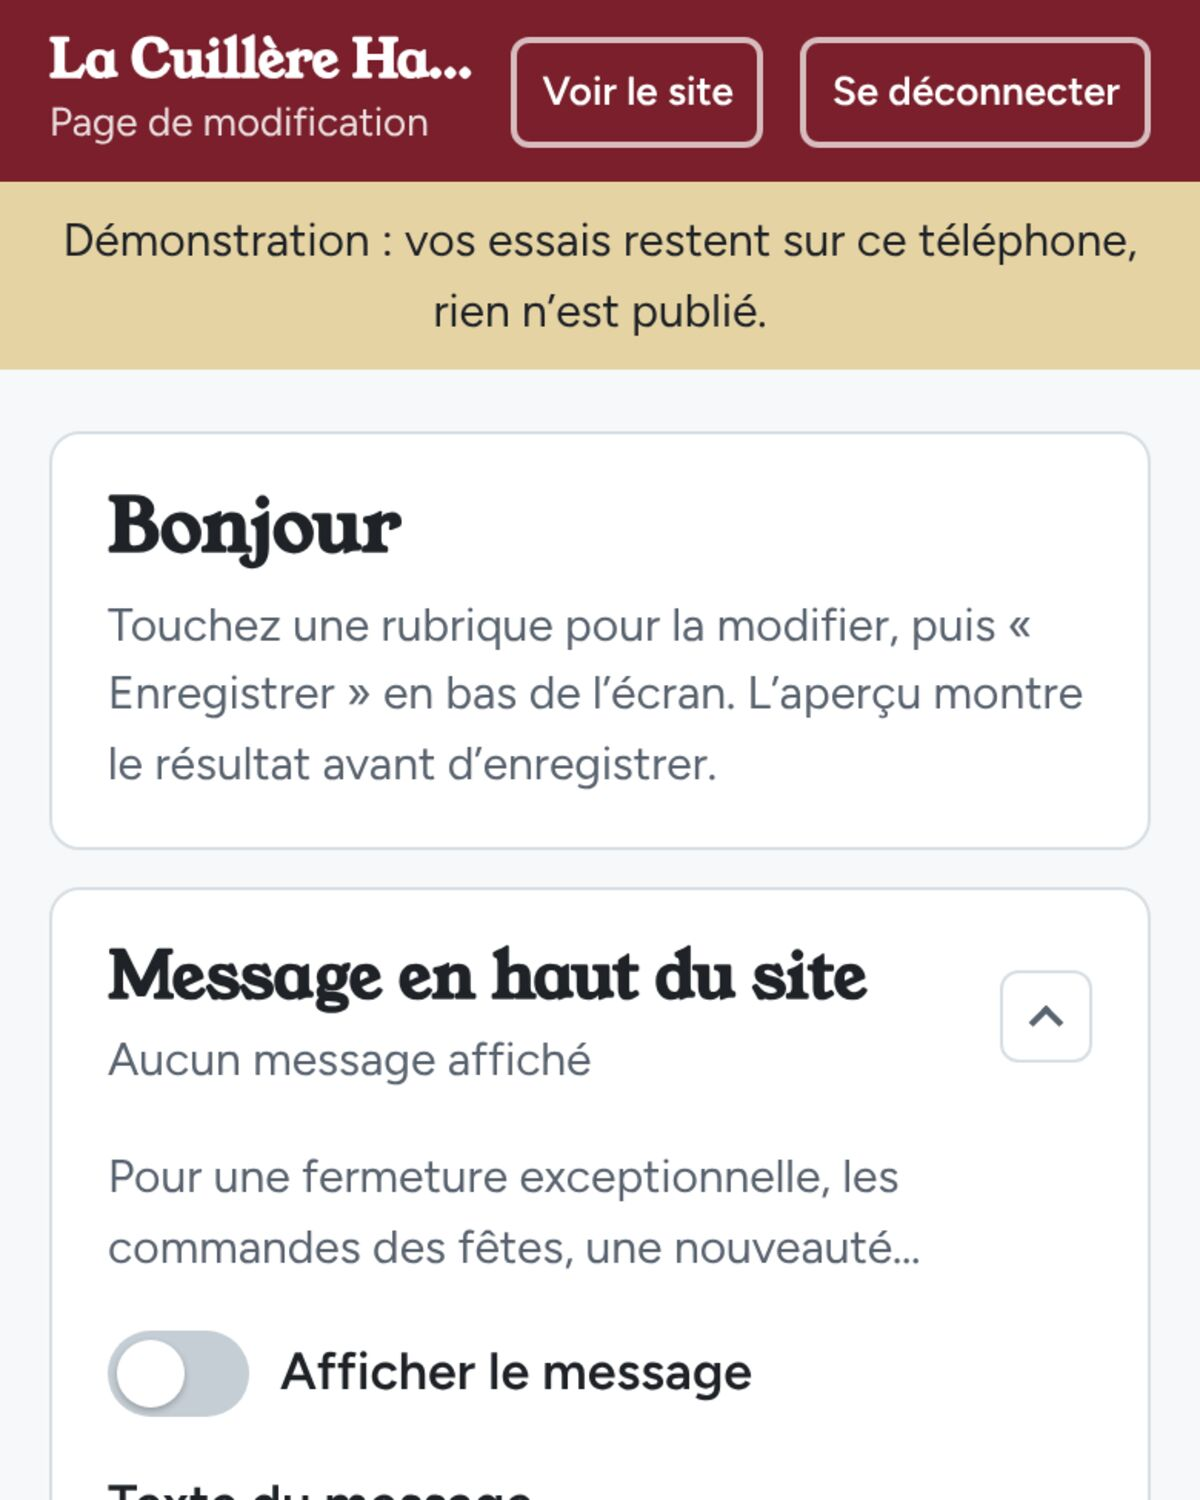
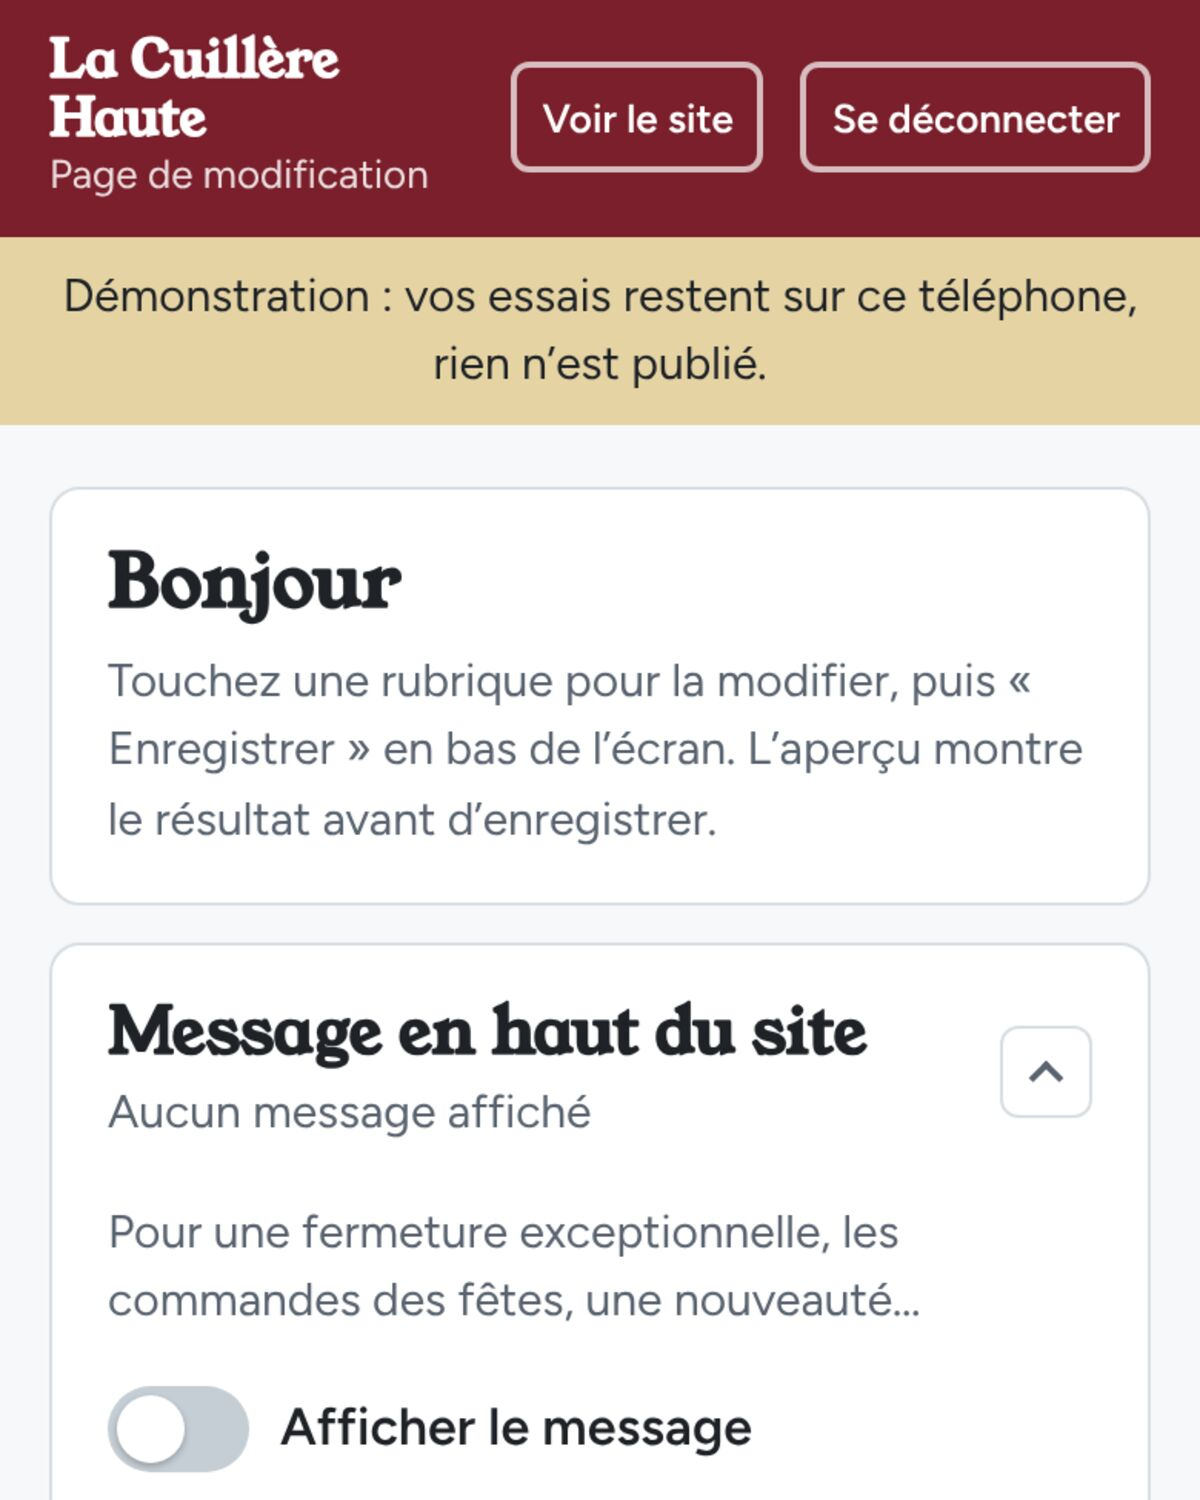
Design édition, révision 3 : un seul univers (papier, encre, bleu), filet bleu signature, démonstrations 2×2, capture de modification lisible, À propos sans portrait ; docs/PHOTOS-A-FOURNIR.md
Claude-Session: https://claude.ai/code/session_01KmWuHobznHmM7V82BQaya5

Changed region(s): [[0.0, 0.0, 1.0, 1.0], [0.8325, 0.644, 0.8942, 0.736]]

diff --git a/public/assets/site.css b/public/assets/site.css
@@ -881,3 +881,71 @@ select.saisie{background-image:linear-gradient(45deg,transparent 50%,var(--gris)
 @media (max-width:759px){.g-edition .cmp tbody th{width:auto}}
 .g-edition .essai-act{display:block}
 .g-edition .essai-act svg{display:inline-block;vertical-align:-4px;margin-left:6px}
+
+/* Révision 3 : un seul univers (papier, encre, bleu), le noir réservé au pied de page ; trait signature : le filet bleu */
+.g-edition .hero{padding-bottom:clamp(8px,2vw,24px)}
+.g-edition .hero + .sec{padding-top:clamp(40px,5vw,72px)}
+.g-edition .sec-tete h2::before,.g-edition .intro-txt h2::before,.g-edition .essai-txt h2::before{content:"";display:block;width:44px;height:4px;background:var(--bleu);margin-bottom:24px}
+.g-edition .intro-txt h2,.g-edition .essai-txt h2,.g-edition .sec-tete h2{font-size:clamp(1.875rem,3.4vw,2.75rem);max-width:16ch}
+.g-edition .etape-num{display:none}
+.g-edition .etapes>li{border-top:var(--filfort);padding-top:22px}
+.g-edition .etapes>li{position:relative}
+.g-edition .etapes>li::before{display:block;content:"";position:absolute;top:-1px;left:0;width:44px;height:4px;background:var(--bleu)}
+.g-edition .sombre{background:#fff;color:var(--encre);border-top:var(--filfort);border-bottom:var(--filfort)}
+.g-edition .sombre h2,.g-edition .sombre h3{color:var(--encre)}
+.g-edition .sombre .chapo,.g-edition .sombre p{color:var(--gris)}
+.g-edition .sombre .sur{color:var(--bleu)}
+.g-edition .metiers{border-top:var(--filfort)}
+.g-edition .metiers li{border-bottom:var(--fil)}
+.g-edition .metiers li:last-child{border-bottom:var(--filfort)}
+.g-edition .metiers a{color:var(--encre)}
+.g-edition .metiers a:hover{background:none}
+.g-edition .metiers a:hover h3{color:var(--bleu)}
+.g-edition .metiers p{color:var(--gris)}
+.g-edition .metiers .metier-prix{color:var(--bleu)}
+.g-edition .metiers .metier-prix .prix-l{color:var(--gris)}
+.g-edition .metiers .lien{color:var(--encre)}
+.g-edition .appel{background:var(--fond);color:var(--encre);border-top:4px solid var(--bleu)}
+.g-edition .appel h2{color:var(--encre)}
+.g-edition .appel p{color:var(--gris)}
+.g-edition .appel .sur{color:var(--bleu)}
+.g-edition .appel .btn{background:var(--bleu);border-color:var(--bleu);color:#fff}
+.g-edition .appel .btn:hover{background:var(--encre);border-color:var(--encre);color:#fff}
+.g-edition .appel .btn-ligne-clair{background:transparent;color:var(--encre);border-color:var(--encre)}
+.g-edition .appel .btn-ligne-clair:hover{background:var(--encre);color:#fff;border-color:var(--encre)}
+.g-edition .appel-in{padding-top:clamp(56px,8vw,104px);padding-bottom:clamp(56px,8vw,104px)}
+.g-edition .appel h2{font-size:clamp(2rem,4.2vw,3.5rem)}
+
+/* La capture de la page de modification : hauteur fixe, filet, fondu */
+.g-edition .intro-fig{position:relative;align-self:start}
+.g-edition .intro-img{aspect-ratio:auto;height:440px;width:100%;object-fit:cover;object-position:top;-webkit-mask-image:linear-gradient(#000 calc(100% - 64px),transparent);mask-image:linear-gradient(#000 calc(100% - 64px),transparent);border:var(--fil);border-bottom:0}
+
+/* Démonstrations : quatre captures en deux colonnes, assez grandes pour être lues */
+.g-edition .essai-vue{aspect-ratio:5/4;-webkit-mask-image:linear-gradient(#000 calc(100% - 40px),transparent);mask-image:linear-gradient(#000 calc(100% - 40px),transparent);border-bottom:0}
+.g-edition .essai-liens{grid-template-columns:minmax(0,1fr)}
+.g-edition .essai-liens b{font-size:1.5rem}
+.g-edition .essai-liens small{font-size:1rem}
+@media (min-width:620px){.g-edition .essai-liens{grid-template-columns:repeat(2,minmax(0,1fr));gap:40px 28px}}
+@media (min-width:1000px){
+  .g-edition .essai-grille{grid-template-columns:minmax(0,4fr) minmax(0,8fr);column-gap:clamp(40px,6vw,96px);align-items:start}
+  .g-edition .essai-liens{grid-template-columns:repeat(2,minmax(0,1fr));gap:44px 32px}
+}
+.g-edition .pied h2{font-size:1.125rem}
+
+/* Révision 3 (suite) : À propos sans portrait, équipe, captures des pages par métier */
+.g-edition .tete-page + .sec-serre{padding-top:clamp(8px,1.5vw,20px)}
+@media (min-width:1000px){
+  .g-edition .intro-grille:not(:has(.intro-fig)) .prose-grande{display:grid;grid-template-columns:minmax(0,6fr) minmax(0,5fr);column-gap:clamp(40px,6vw,96px);align-items:start}
+  .g-edition .intro-grille:not(:has(.intro-fig)) .prose-grande > :first-child{grid-column:1;grid-row:1 / span 8}
+  .g-edition .intro-grille:not(:has(.intro-fig)) .prose-grande > :not(:first-child){grid-column:2}
+}
+.g-edition .portrait-vide{display:none}
+.g-edition .equipe b{font-family:var(--titres);font-weight:500;font-size:1.5rem;letter-spacing:-.015em}
+.g-edition .tete-page .metier-prix{margin:20px 0 0}
+.g-edition .metier-img{-webkit-mask-image:linear-gradient(#000 calc(100% - 56px),transparent);mask-image:linear-gradient(#000 calc(100% - 56px),transparent);border-bottom:0}
+.g-edition .intro-grille:not(:has(.intro-fig)){grid-template-columns:minmax(0,1fr)}
+.g-edition .equipe{display:block}
+.g-edition .equipe li{max-width:none}
+.g-edition .equipe b{display:block}
+.g-edition .intro-grille:not(:has(.intro-fig)) .prose-grande{max-width:none;width:100%}
+.g-edition .intro-grille:not(:has(.intro-fig)) .prose-grande > :first-child{max-width:20ch}

diff --git a/public/assets/admin.css b/public/assets/admin.css
@@ -156,7 +156,7 @@ details.item>summary span.s{display:block;color:var(--gris);font-size:.9375rem;o
 .barre-enr .etat.modifie{color:#7a5a00}
 .barre-enr .etat.ok{color:var(--ok)}
 .toast{position:fixed;left:50%;top:calc(76px + env(safe-area-inset-top,0px));transform:translateX(-50%);z-index:70;background:var(--encre);color:#fff;border-radius:8px;padding:10px 16px;font-size:.9375rem;max-width:calc(100vw - 32px)}
-@media (max-width:600px){.barre-enr .etat{flex-basis:100%;font-size:.875rem}.barre-enr .in .btn{flex:1 1 0;padding:4px 6px;min-width:0;white-space:normal;line-height:1.15;font-size:.9375rem;text-align:center}.haut-in .btn{padding:0 8px;font-size:.8125rem;min-height:36px}.haut-titre b{font-size:1.0625rem}.haut-titre span{font-size:.8125rem}}
+@media (max-width:600px){.barre-enr .etat{flex-basis:100%;font-size:.875rem}.barre-enr .in .btn{flex:1 1 0;padding:4px 6px;min-width:0;white-space:normal;line-height:1.15;font-size:.9375rem;text-align:center}.haut-in .btn{padding:0 8px;font-size:.8125rem;min-height:36px}.haut-titre b{font-size:1.0625rem;white-space:normal;line-height:1.1}.haut-titre span{font-size:.8125rem}}
 @media (prefers-reduced-motion:reduce){*{transition:none!important}}
 
 /* Maison : couleurs de collection, plusieurs photos */

diff --git a/public/demos/atelier-exemple.html b/public/demos/atelier-exemple.html
@@ -165,7 +165,7 @@ details.item>summary span.s{display:block;color:var(--gris);font-size:.9375rem;o
 .barre-enr .etat.modifie{color:#7a5a00}
 .barre-enr .etat.ok{color:var(--ok)}
 .toast{position:fixed;left:50%;top:calc(76px + env(safe-area-inset-top,0px));transform:translateX(-50%);z-index:70;background:var(--encre);color:#fff;border-radius:8px;padding:10px 16px;font-size:.9375rem;max-width:calc(100vw - 32px)}
-@media (max-width:600px){.barre-enr .etat{flex-basis:100%;font-size:.875rem}.barre-enr .in .btn{flex:1 1 0;padding:4px 6px;min-width:0;white-space:normal;line-height:1.15;font-size:.9375rem;text-align:center}.haut-in .btn{padding:0 8px;font-size:.8125rem;min-height:36px}.haut-titre b{font-size:1.0625rem}.haut-titre span{font-size:.8125rem}}
+@media (max-width:600px){.barre-enr .etat{flex-basis:100%;font-size:.875rem}.barre-enr .in .btn{flex:1 1 0;padding:4px 6px;min-width:0;white-space:normal;line-height:1.15;font-size:.9375rem;text-align:center}.haut-in .btn{padding:0 8px;font-size:.8125rem;min-height:36px}.haut-titre b{font-size:1.0625rem;white-space:normal;line-height:1.1}.haut-titre span{font-size:.8125rem}}
 @media (prefers-reduced-motion:reduce){*{transition:none!important}}
 
 /* Vidéo de fond */

diff --git a/public/demos/fleuriste-exemple.html b/public/demos/fleuriste-exemple.html
@@ -165,7 +165,7 @@ details.item>summary span.s{display:block;color:var(--gris);font-size:.9375rem;o
 .barre-enr .etat.modifie{color:#7a5a00}
 .barre-enr .etat.ok{color:var(--ok)}
 .toast{position:fixed;left:50%;top:calc(76px + env(safe-area-inset-top,0px));transform:translateX(-50%);z-index:70;background:var(--encre);color:#fff;border-radius:8px;padding:10px 16px;font-size:.9375rem;max-width:calc(100vw - 32px)}
-@media (max-width:600px){.barre-enr .etat{flex-basis:100%;font-size:.875rem}.barre-enr .in .btn{flex:1 1 0;padding:4px 6px;min-width:0;white-space:normal;line-height:1.15;font-size:.9375rem;text-align:center}.haut-in .btn{padding:0 8px;font-size:.8125rem;min-height:36px}.haut-titre b{font-size:1.0625rem}.haut-titre span{font-size:.8125rem}}
+@media (max-width:600px){.barre-enr .etat{flex-basis:100%;font-size:.875rem}.barre-enr .in .btn{flex:1 1 0;padding:4px 6px;min-width:0;white-space:normal;line-height:1.15;font-size:.9375rem;text-align:center}.haut-in .btn{padding:0 8px;font-size:.8125rem;min-height:36px}.haut-titre b{font-size:1.0625rem;white-space:normal;line-height:1.1}.haut-titre span{font-size:.8125rem}}
 @media (prefers-reduced-motion:reduce){*{transition:none!important}}
 
 /* Vidéo de fond */

diff --git a/public/demos/plombier-exemple.html b/public/demos/plombier-exemple.html
@@ -165,7 +165,7 @@ details.item>summary span.s{display:block;color:var(--gris);font-size:.9375rem;o
 .barre-enr .etat.modifie{color:#7a5a00}
 .barre-enr .etat.ok{color:var(--ok)}
 .toast{position:fixed;left:50%;top:calc(76px + env(safe-area-inset-top,0px));transform:translateX(-50%);z-index:70;background:var(--encre);color:#fff;border-radius:8px;padding:10px 16px;font-size:.9375rem;max-width:calc(100vw - 32px)}
-@media (max-width:600px){.barre-enr .etat{flex-basis:100%;font-size:.875rem}.barre-enr .in .btn{flex:1 1 0;padding:4px 6px;min-width:0;white-space:normal;line-height:1.15;font-size:.9375rem;text-align:center}.haut-in .btn{padding:0 8px;font-size:.8125rem;min-height:36px}.haut-titre b{font-size:1.0625rem}.haut-titre span{font-size:.8125rem}}
+@media (max-width:600px){.barre-enr .etat{flex-basis:100%;font-size:.875rem}.barre-enr .in .btn{flex:1 1 0;padding:4px 6px;min-width:0;white-space:normal;line-height:1.15;font-size:.9375rem;text-align:center}.haut-in .btn{padding:0 8px;font-size:.8125rem;min-height:36px}.haut-titre b{font-size:1.0625rem;white-space:normal;line-height:1.1}.haut-titre span{font-size:.8125rem}}
 @media (prefers-reduced-motion:reduce){*{transition:none!important}}
 
 /* Vidéo de fond */

diff --git a/public/demos/restaurant-exemple.html b/public/demos/restaurant-exemple.html
@@ -165,7 +165,7 @@ details.item>summary span.s{display:block;color:var(--gris);font-size:.9375rem;o
 .barre-enr .etat.modifie{color:#7a5a00}
 .barre-enr .etat.ok{color:var(--ok)}
 .toast{position:fixed;left:50%;top:calc(76px + env(safe-area-inset-top,0px));transform:translateX(-50%);z-index:70;background:var(--encre);color:#fff;border-radius:8px;padding:10px 16px;font-size:.9375rem;max-width:calc(100vw - 32px)}
-@media (max-width:600px){.barre-enr .etat{flex-basis:100%;font-size:.875rem}.barre-enr .in .btn{flex:1 1 0;padding:4px 6px;min-width:0;white-space:normal;line-height:1.15;font-size:.9375rem;text-align:center}.haut-in .btn{padding:0 8px;font-size:.8125rem;min-height:36px}.haut-titre b{font-size:1.0625rem}.haut-titre span{font-size:.8125rem}}
+@media (max-width:600px){.barre-enr .etat{flex-basis:100%;font-size:.875rem}.barre-enr .in .btn{flex:1 1 0;padding:4px 6px;min-width:0;white-space:normal;line-height:1.15;font-size:.9375rem;text-align:center}.haut-in .btn{padding:0 8px;font-size:.8125rem;min-height:36px}.haut-titre b{font-size:1.0625rem;white-space:normal;line-height:1.1}.haut-titre span{font-size:.8125rem}}
 @media (prefers-reduced-motion:reduce){*{transition:none!important}}
 
 /* Vidéo de fond */

diff --git a/docs/PHOTOS-A-FOURNIR.md b/docs/PHOTOS-A-FOURNIR.md
@@ -1,0 +1,34 @@
+# Photos et informations à fournir par Greg
+
+Le design fonctionne **avec et sans** ces photos : tant qu'elles manquent, les emplacements affichent tes initiales ou restent masqués (aucune photo de banque d'images n'est présentée comme ton travail). Mais c'est ce qui sépare un site propre d'un site qui te ressemble. Rien n'est à envoyer en urgence : le site n'est pas en ligne.
+
+## Photos (dans l'ordre d'utilité)
+
+| # | Photo | Où elle apparaît | Précisions |
+| --- | --- | --- | --- |
+| 1 | **Portrait de toi** (buste, lumière du jour, regard vers l'appareil, fond simple) | Page « À propos » (`presentation.photo`) et ligne « équipe » (`equipe[0].photo`) | Cadrage vertical 4/5. Pas de selfie au miroir, pas de photo de groupe. |
+| 2 | **Toi au travail** : mains sur le clavier, ou à l'établi de joaillerie (sans pièce de client) | Accueil, à côté de « Je m'en occupe pour vous » (`accueil.photo_intro`, aujourd'hui remplacée par la capture de la page de modification) | Cadrage vertical 4/5. L'établi montre le soin, mais **sans le mot « joaillerie »** sur le site (nom réservé à Atelier Muel). |
+| 3 | **Auteuil / Paris 16e** : une rue, une vitrine, un marché que tu aimes | Page « À propos » (emplacement à prévoir au moment de l'import) | Pas de plaque de rue ni de visage reconnaissable sans accord. |
+| 4 | **Logo** (facultatif) | En-tête | Le monogramme GM bleu (`public/assets/gregoire-muel-monogramme.svg`) sert déjà. À remplacer seulement si tu en as un. |
+| 5 | **Un vrai client** (dès qu'il y en a un, avec son accord écrit) | Réalisations (`realisations[].photos`, `apercu`) à la place d'une démonstration | Avant / après, accord écrit du client. Le premier remplace la démonstration correspondante, sans toucher aux autres. |
+
+## Règles techniques
+
+- JPEG, **2000 px sur le grand côté**, sans données GPS (la fabrique et `npm run vignettes` les retirent ; si tu envoies à Claude, envoie le fichier original, il est réduit et nettoyé à l'import).
+- Poids avant import : peu importe ; après import : environ 150 à 300 Ko par photo.
+- Aucune photo de tiers sans accord (pour toi : ton visage, ton atelier, ton quartier ; pour un client : accord écrit).
+- Aucune photo Google ou Wix, jamais.
+
+## Informations à confirmer
+
+- Ton **téléphone** `07 80 00 81 37` est bien celui à afficher ? (un critique extérieur l'a pris pour un faux numéro : il est réel, mais confirme.)
+- **Adresse** : « Paris 16e » seulement (c'est ce qui est affiché) ou une adresse complète ?
+- **Nom commercial** « Grégoire Muel » : à faire inscrire au Guichet unique avant l'ouverture.
+- Des **horaires d'appel** à afficher, si tu en veux (à vérifier dans `contact` de `contenu-initial.json` ce qui est affiché aujourd'hui).
+- Les **prix** (590 €, 1 290 €, 1 900 €, 19 €, 39 €, 49 €) restent des propositions à valider.
+
+## Comment les installer
+
+1. Envoie-les à Claude dans la conversation (ou dépose-les dans `exemples/photos/` du dépôt).
+2. Claude les réduit, retire les métadonnées, les place dans `public/assets/photos/` et renseigne les champs ci-dessus dans `contenu-initial.json`, puis relance `npm run verifier` et `npm test`.
+3. Une fois le site en ligne, tu peux aussi les changer toi-même depuis `/admin` (chaque photo a son champ).
